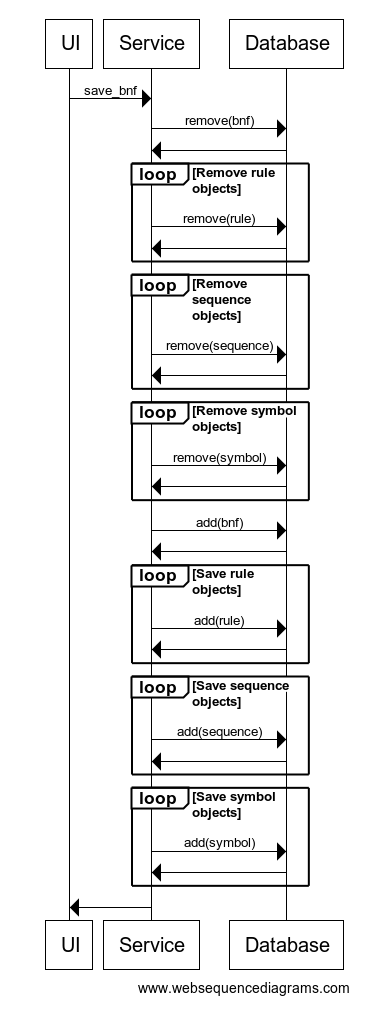
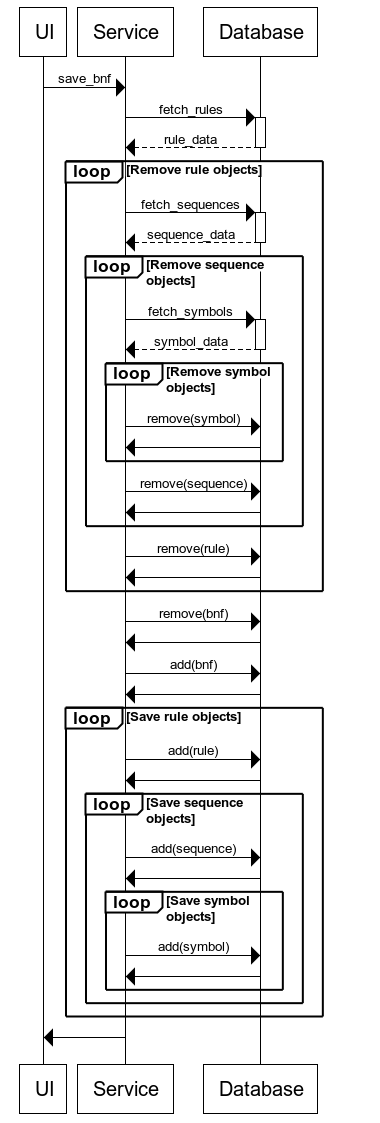
Fix

Changed region(s): [[0.0868, 0.0, 0.8974, 1.0], [0.8395, 0.122, 0.8684, 0.5187], [0.5211, 0.0, 0.55, 0.0305]]

diff --git a/src/service.py b/src/service.py
@@ -16,6 +16,10 @@ class Service():
 
         self._database = database
         self.bnf = None
+        
+    def clear(self):
+        """Clears the current service, sets the stored BNF as None"""
+        self.bnf = None
 
     def create_bnf(self, string=''):
         """Creates a BNF object from string and adds it to the service.
@@ -101,15 +105,22 @@ class Service():
 
     def remove_bnf(self):
         """Removes BNF model and all data related it from database."""
+        
+        rules = self._database.fetch_all(self.bnf.id, 'rule')
 
-        for rule in self.bnf.rules:
-            for sequence in rule.sequences:
-                for symbol in sequence.symbols:
-                    self._database.remove(symbol.id, 'symbol')
+        for rule in rules:
+            sequences = self._database.fetch_all(rule[0], 'sequence')
+            
+            for sequence in sequences:
+            
+                symbols = self._database.fetch_all(sequence[0], 'symbol')
+                
+                for symbol in symbols:
+                    self._database.remove(symbol[0], 'symbol')
 
-                self._database.remove(sequence.id, 'sequence')
+                self._database.remove(sequence[0], 'sequence')
 
-            self._database.remove(rule.id, 'rule')
+            self._database.remove(rule[0], 'rule')
 
         self._database.remove(self.bnf.id, 'bnf')
 

diff --git a/src/ui/view.py b/src/ui/view.py
@@ -44,6 +44,10 @@ class StartView(View):
             dropdown_load_model.pack()
             
         self._frame.pack()
+    
+    def handle_new_button_click(self):
+        self._service.clear()
+        self._go_to_edit()
 
     def _handle_load_button_click(self):
         bnf_id = self._dropdown_variable.get()
@@ -61,7 +65,7 @@ class EditModeView(View):
         button_back = ttk.Button(
             master=self._frame,
             text='Back',
-            command=self._go_to_start,
+            command=self._handle_back_button_click,
         )
         button_back.grid(row=0, column=2)
         
@@ -231,3 +235,8 @@ class EditModeView(View):
             
     def _handle_save_button_click(self):
         self._service.save_bnf()
+
+    def _handle_back_button_click(self):
+        self._service.clear()
+        self.textarea.insert('end-1c', '')
+        self._go_to_start()

diff --git a/src/database.py b/src/database.py
@@ -156,7 +156,7 @@ class Database:
         """Removes a single BNF model, rule, sequence or symbol from database.
 
         Args:
-            item_id: UUID of the parent of the item, or none if item is bnf
+            item_id: UUID of the of the item to be removed
             item_type (string): type of item, (bnf, rule, sequence, symbol)
         """
 

diff --git a/src/main.py b/src/main.py
@@ -5,7 +5,7 @@ from service import Service
 def main():
     """Runs the mainloop of the application"""
 
-    database = Database('test.db')
+    database = Database('database.db')
     service = Service(database)
     app = UI(service)
     app.loop()
